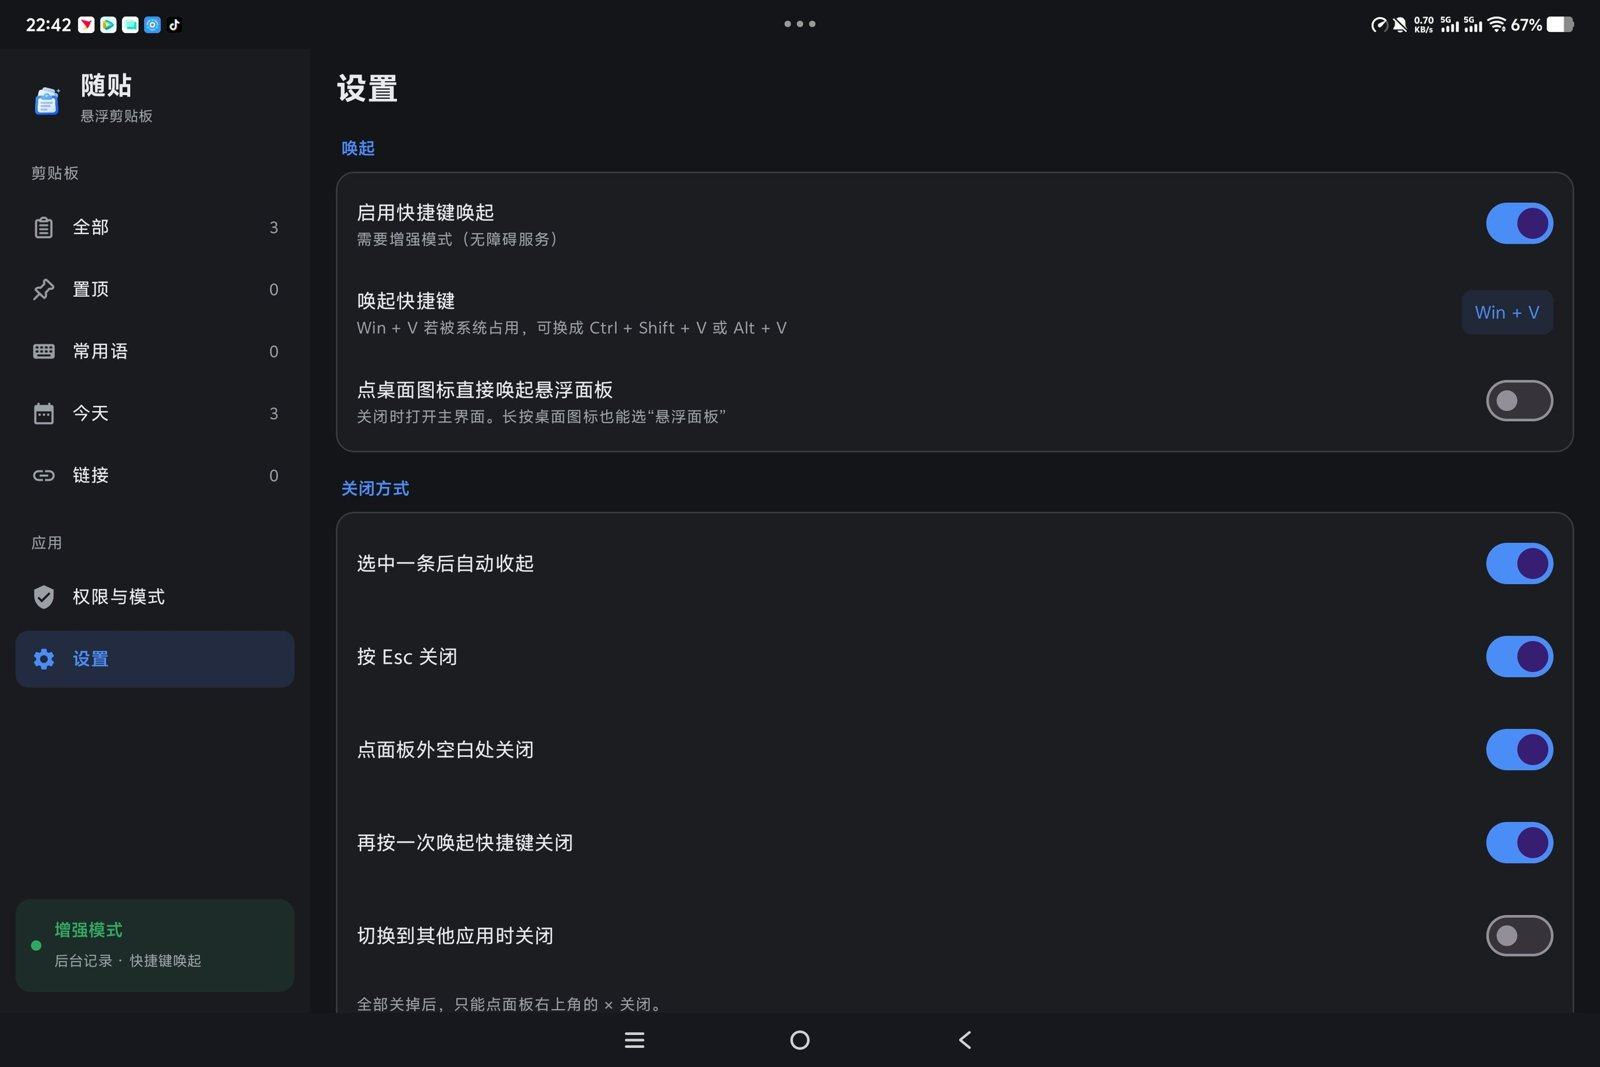
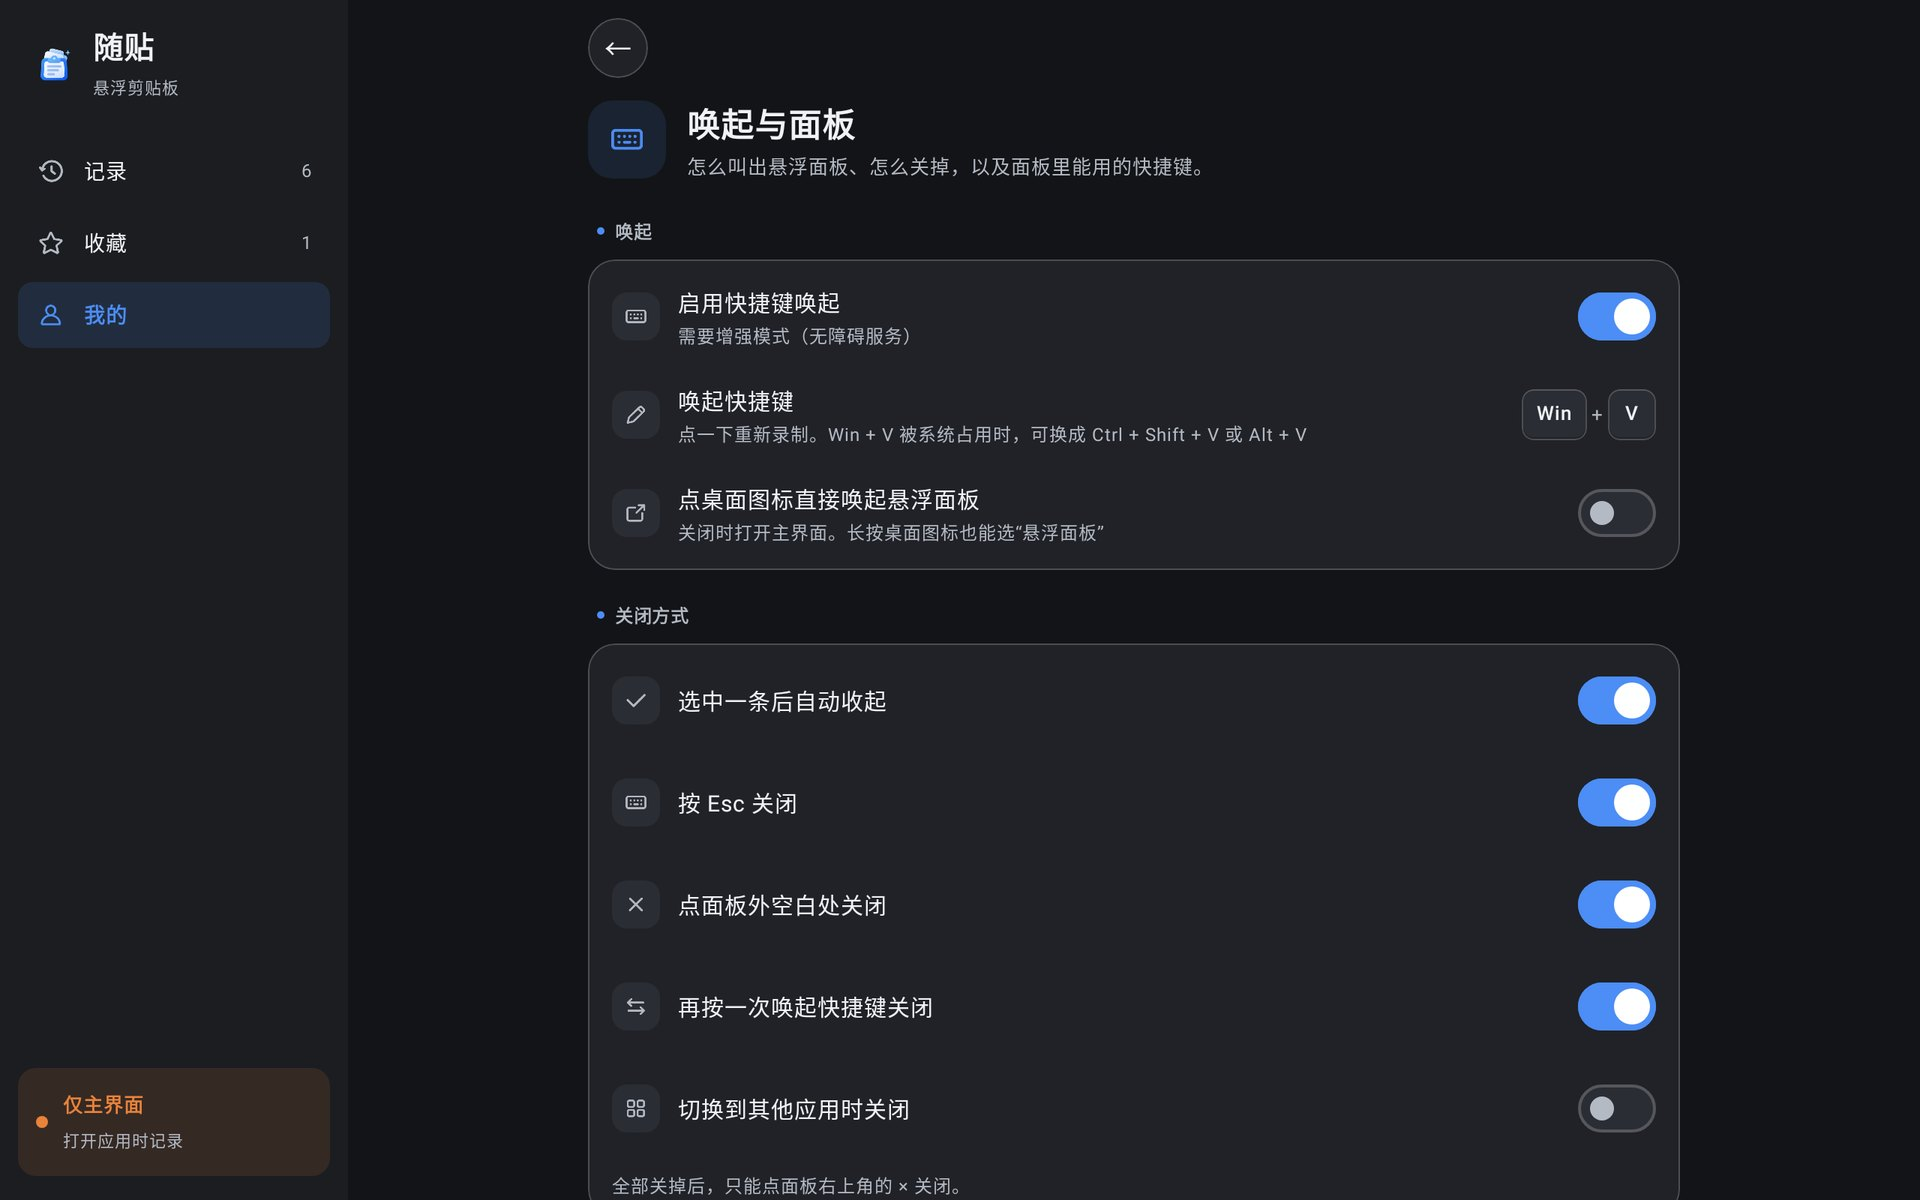
README: 换成 0.6.1 新界面截图（浅色 / 深色、平板 / 手机）；截图测试改用更像样的示例数据、2 倍密度

diff --git a/app/src/test/java/com/mistpeaklab/clipdock/ScreenshotTest.kt b/app/src/test/java/com/mistpeaklab/clipdock/ScreenshotTest.kt
@@ -57,11 +57,11 @@ class ScreenshotTest {
             "【快递通知】您好，您在 3 月 12 日购买的「机械键盘 K8 Pro」已发货，运单号 SF1428 5736 9021，预计 2 天内送达。",
             "https://github.com/MistPeakLab/ClipDock",
             "会议纪要：本周五 14:30 在 3 号会议室讨论 v0.6.1 发布计划。负责人张伟（zhangwei@example.com）。",
-            "测试一下",
-            "The quick brown fox jumps over the lazy dog.",
+            "下午三点的会改到四点，地点不变。",
+            "Please review the PR before Friday. Thanks!",
             "#4C8DF6",
             "收件人：王经理 138 0013 8000 上海市浦东新区世纪大道 100 号",
-            "忽略",
+            "zhangwei@example.com",
         )
         texts.forEach { TestEnv.tick(60_000); ClipStore.add(it, Prefs(ctx).maxItems) }
         TestEnv.settle()
@@ -76,16 +76,16 @@ class ScreenshotTest {
 
     private val scenes: List<Pair<String, () -> Unit>> = listOf(
         "home" to {},
-        "dock" to { text("测试一下").performClick(); pause() },
-        "wheel" to { text("测试一下").performTouchInput { longClick() }; pause() },
+        "dock" to { text("改到四点").performClick(); pause() },
+        "wheel" to { text("改到四点").performTouchInput { longClick() }; pause() },
         "transform" to {
             text("快递通知").performClick(); pause()
             text("变换").performClick(); pause(1500)
         },
-        "more" to { text("测试一下").performClick(); pause(); text("更多").performClick(); pause() },
+        "more" to { text("改到四点").performClick(); pause(); text("更多").performClick(); pause() },
         "detail" to {
             Prefs(ctx).recordsLayout = 1; scene++; pause()
-            text("测试一下").performClick(); pause()
+            text("改到四点").performClick(); pause()
         },
         "favorites" to { text("收藏").performClick(); pause() },
         "me" to { text("我的").performClick(); pause() },
@@ -114,7 +114,7 @@ class ScreenshotTest {
         Prefs(ctx).theme = theme
         Prefs(ctx).applyMode(Mode.FULL)
         // 回收站里放两条，截图才有内容
-        ClipStore.history().filter { it.text == "忽略" || it.text.startsWith("The quick") }.forEach { ClipStore.delete(it.id) }
+        ClipStore.history().filter { it.text.startsWith("zhangwei") || it.text.startsWith("Please review") }.forEach { ClipStore.delete(it.id) }
         TestEnv.settle()
         L.init(rule.activity)
         rule.setContent { key(scene) { AppTheme { AppRoot() } } }
@@ -176,28 +176,31 @@ class ScreenshotTest {
         return (f.get(g) as List<View>).toList()
     }
 
-    @Test @Config(qualifiers = "zh-rCN-w1280dp-h800dp-land-mdpi")
+    @Test @Config(qualifiers = "zh-rCN-w1280dp-h800dp-land-xhdpi")
     fun tabletLight() = run("tablet-light", 1)
 
-    @Test @Config(qualifiers = "zh-rCN-w1280dp-h800dp-land-mdpi")
+    @Test @Config(qualifiers = "zh-rCN-w1280dp-h800dp-land-xhdpi")
     fun tabletSimple() = run("tablet-simple", 1, Mode.SIMPLE)
 
-    @Test @Config(qualifiers = "zh-rCN-w1280dp-h800dp-land-mdpi")
+    @Test @Config(qualifiers = "zh-rCN-w1280dp-h800dp-land-xhdpi")
     fun tabletDark() = run("tablet-dark", 2)
 
-    @Test @Config(qualifiers = "zh-rCN-w400dp-h860dp-port-mdpi")
+    @Test @Config(qualifiers = "zh-rCN-w400dp-h860dp-port-xhdpi")
     fun phoneLight() = run("phone-light", 1)
 
-    @Test @Config(qualifiers = "zh-rCN-w400dp-h860dp-port-mdpi")
+    @Test @Config(qualifiers = "zh-rCN-w400dp-h860dp-port-xhdpi")
     fun phoneDark() = run("phone-dark", 2)
 
-    // 设置子页用加高的屏幕，一屏看完整页
-    @Test @Config(qualifiers = "zh-rCN-w1280dp-h1600dp-land-mdpi")
+    // 设置子页：和真机一样的屏幕高度（README 用）；要看整页时把 h800dp 临时改成 h1600dp
+    @Test @Config(qualifiers = "zh-rCN-w1280dp-h800dp-land-xhdpi")
     fun settingsTabletLight() = runSettings("set-tablet-light", 1)
 
-    @Test @Config(qualifiers = "zh-rCN-w1280dp-h1600dp-land-mdpi")
+    @Test @Config(qualifiers = "zh-rCN-w1280dp-h800dp-land-xhdpi")
     fun settingsTabletDark() = runSettings("set-tablet-dark", 2)
 
-    @Test @Config(qualifiers = "zh-rCN-w400dp-h1600dp-port-mdpi")
+    @Test @Config(qualifiers = "zh-rCN-w400dp-h860dp-port-xhdpi")
     fun settingsPhoneLight() = runSettings("set-phone-light", 1)
+
+    @Test @Config(qualifiers = "zh-rCN-w400dp-h860dp-port-xhdpi")
+    fun settingsPhoneDark() = runSettings("set-phone-dark", 2)
 }
